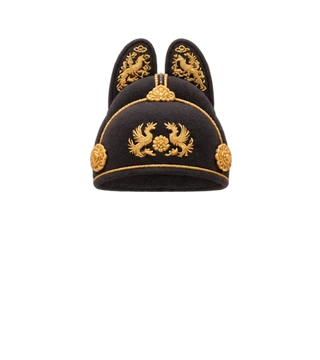
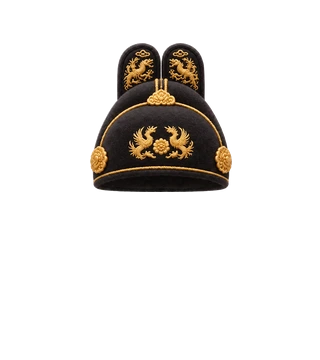
한복 신발을 치마 위로, 한복 모자를 키워 머리가 안에 들어가게, 익선관 날개를 곧게
Claude-Session: https://claude.ai/code/session_015t7mweLLBzEFYGgsGmysr6

Changed region(s): [[0.2812, 0.0917, 0.75, 0.5194]]

diff --git a/js/fluffy.js b/js/fluffy.js
@@ -35,8 +35,10 @@ export function capyBody(color, face, back, own) {
   return { feet: `<g class="cf-l">${crop(f, own, -20, FOOT, 80, 40)}</g><g class="cf-r">${crop(f, own, 60, FOOT, 80, 40)}</g>`, body: crop(f, own, -20, -30, 160, FOOT + 30 + 0.4), whole: img(f, own) };
 }
 // 옷: 몸에 입힌 채로 그린 그림(같은 틀)을 그대로 겹친다. 신발은 발처럼 좌우로 잘라 걸을 때 함께 움직인다
-const HAT_UP = -10; // 모자는 마네킹보다 머리가 낮게 그려져 있어 조금 올려 씌운다(눈을 가리지 않게)
-const wimg = (id, own, back) => img((back ? 'wb/' : 'w/') + id + '.webp', own);
+const HAT_UP = -10;
+// 한복 모자는 머리 위에 얹힌 듯 작아서, 챙 아래쪽을 기준으로 키워 머리가 모자 안에 들어가게 한다
+const HDHAT_Y = Y + 190 * S, HDHAT = { 'h-hd-5': 1.05 }; // 모자는 마네킹보다 머리가 낮게 그려져 있어 조금 올려 씌운다(눈을 가리지 않게)
+const wimg = (id, own, back) => img((back ? 'wb/' : 'w/') + id + '.webp' + (id === 'h-hd-1' && !back ? '?v=2' : ''), own);
 // 새 체형(머리가 크고 몸이 작다)에 맞춰 예전 옷·장비 그림을 줄여 입힌다: [기준 x, 기준 y, 가로 배율, 세로 배율, 옆으로, 아래로] (기준점은 그대로 두고 줄인 뒤 옮긴다)
 const FIT = { t: [60, 128.5, 0.8, 0.78, 0, 0], b: [60, 128.5, 0.84, 0.8, 0, 0], h: [60, 20, 1, 1, 0, 0], s: [60, 135, 0.76, 0.86, 0, 0] };
 const fitG = (f, inner) => (f && inner ? `<g transform="translate(${f[0] + f[4]} ${f[1] + f[5]}) scale(${f[2]} ${f[3]}) translate(${-f[0]} ${-f[1]})">${inner}</g>` : inner);
@@ -56,7 +58,7 @@ export function capyWear(o, own, back) {
   const top = ok(o.top, 't'), bot = ok(o.bottom, 'b'), hat = ok(o.hat, 'h'), sh = ok(o.shoe, 's'), over = bot.startsWith('b-overalls');
   const f = sh ? (back ? 'wb/' : 'w/') + sh + '.webp' : '';
   return { shoe: f ? `<g class="cf-l">${fitG(FIT.s, crop(f, own, -20, FOOT - 14, 80, 54))}</g><g class="cf-r">${fitG(FIT.s, crop(f, own, 60, FOOT - 14, 80, 54))}</g>` : '',
-    body: hands(top, o, own, back) + (bot && !over ? worn(bot, own, back) : '') + (top ? worn(top, own, back) : '') + (over ? worn(bot, own, back) : ''), hat: hat ? `<g transform="translate(0 ${HAT_UP})">${worn(hat, own, back)}</g>` : '' };
+    body: hands(top, o, own, back) + (bot && !over ? worn(bot, own, back) : '') + (top ? worn(top, own, back) : '') + (over ? worn(bot, own, back) : ''), hat: hat ? `<g transform="translate(0 ${HAT_UP})">${hat.includes('-hd-') ? `<g transform="translate(60 ${HDHAT_Y + 2}) scale(${HDHAT[hat] || 1.2}) translate(-60 ${-HDHAT_Y})">${worn(hat, own, back)}</g>` : worn(hat, own, back)}</g>` : '' };
 }
 const MOOD = new Set(['happy', 'love', 'sad', 'cry', 'wow', 'smug', 'think', 'shy', 'angry']);
 export const animalImg = (i, mood, own) => img(`a${i}-${mood === 'mad' ? 'angry' : MOOD.has(mood) ? mood : 'base'}.webp`, own);

diff --git a/js/capy.js b/js/capy.js
@@ -97,7 +97,7 @@ export function capy(o = {}) {
     gem += [[4, 62, 0], [116, 50, .6], [10, 126, 1.1], [112, 120, 1.6], [60, -34, .3], [-10, 22, .9], [130, 92, 1.3], [30, -24, .5]].map(([x, y, d]) => `<path d="M${x} ${y - 10} l3 7 7 3 -7 3 -3 7 -3 -7 -7 -3 7 -3z" fill="#FFFDF0" stroke="#F0C24A" stroke-width="1"><animate attributeName="opacity" values="0.15;1;0.15" dur="1.6s" begin="${d}s" repeatCount="indefinite"/></path>`).join(''); }
   const flR = fl && o.rare && o.rare.i != null && !back ? capyRare((o.rare.list || [o.rare.i]).slice(0, 6), o.own, o) : { over: '', shoe: '', back: '' };
   const hdS = sl => { const i = o.hdw && o.hdw[sl]; if (i == null || o.head) return ''; const [cx, w, yb] = HD_SLOT[sl], hh = sl === 'chest' ? w * 3.8 : w; return `<image href="img/hd/y${i}.webp" x="${cx - w / 2}" y="${yb - hh}" width="${w}" height="${hh}" preserveAspectRatio="xMidYMax meet"/>`; } /* chest: 송이의 노리개처럼 가슴에 다는 것(세로로 긴 그림) */, hdB = (back ? '' : hdS('back')) + (o.hdw && o.hdw.chest === 'nori' && !o.head ? '<defs><radialGradient id="noriG"><stop offset="0" stop-color="#C9A2FF" stop-opacity=".95"/><stop offset=".55" stop-color="#A070F0" stop-opacity=".5"/><stop offset="1" stop-color="#A070F0" stop-opacity="0"/></radialGradient></defs><ellipse cx="60" cy="74" rx="60" ry="64" fill="url(#noriG)"><animate attributeName="opacity" values=".45;1;.45" dur="2.6s" repeatCount="indefinite"/></ellipse>' : ''), /* 송이의 노리개를 차면 은은한 보랏빛 */ hdF = (back ? ['back'] : ['neck', 'chest', 'waist', 'lhand', 'rhand']).map(hdS).join('') + hdS('head'); // 핫똑랜드 상징품(자리마다 하나)
-  if (fl) return `<svg xmlns="http://www.w3.org/2000/svg" viewBox="0 -22 120 158"${glow ? ' style="overflow:visible"' : ''}>${glow}${hdB}${o.noShadow ? '' : SHADOW}${flR.back}${fl.feet}${fl.body}${flR.shoe || flW.shoe}${flW.body}${flTop}${flR.over}${flH.shoe}${flH.body}${flH.hat}${pin}${dollB}${dipB}${gem}${hdF}</svg>`;
+  if (fl) return `<svg xmlns="http://www.w3.org/2000/svg" viewBox="0 -22 120 158"${glow ? ' style="overflow:visible"' : ''}>${glow}${hdB}${o.noShadow ? '' : SHADOW}${flR.back}${fl.feet}${fl.body}${String(o.shoe || '').includes('-hd-') ? '' : (flR.shoe || flW.shoe)}${flW.body}${String(o.shoe || '').includes('-hd-') ? (flR.shoe || flW.shoe) : ''}${flTop}${flR.over}${flH.body}${flH.shoe}${flH.hat}${pin}${dollB}${dipB}${gem}${hdF}</svg>`;
   return `<svg xmlns="http://www.w3.org/2000/svg" viewBox="0 -22 120 158"${glow ? ' style="overflow:visible"' : ''}>${glow}${wearB}${body}${wearM}${shoeToe}${head}${pin}${dollB}${dipB}${gem}${hdF}</svg>`;
 }
 
